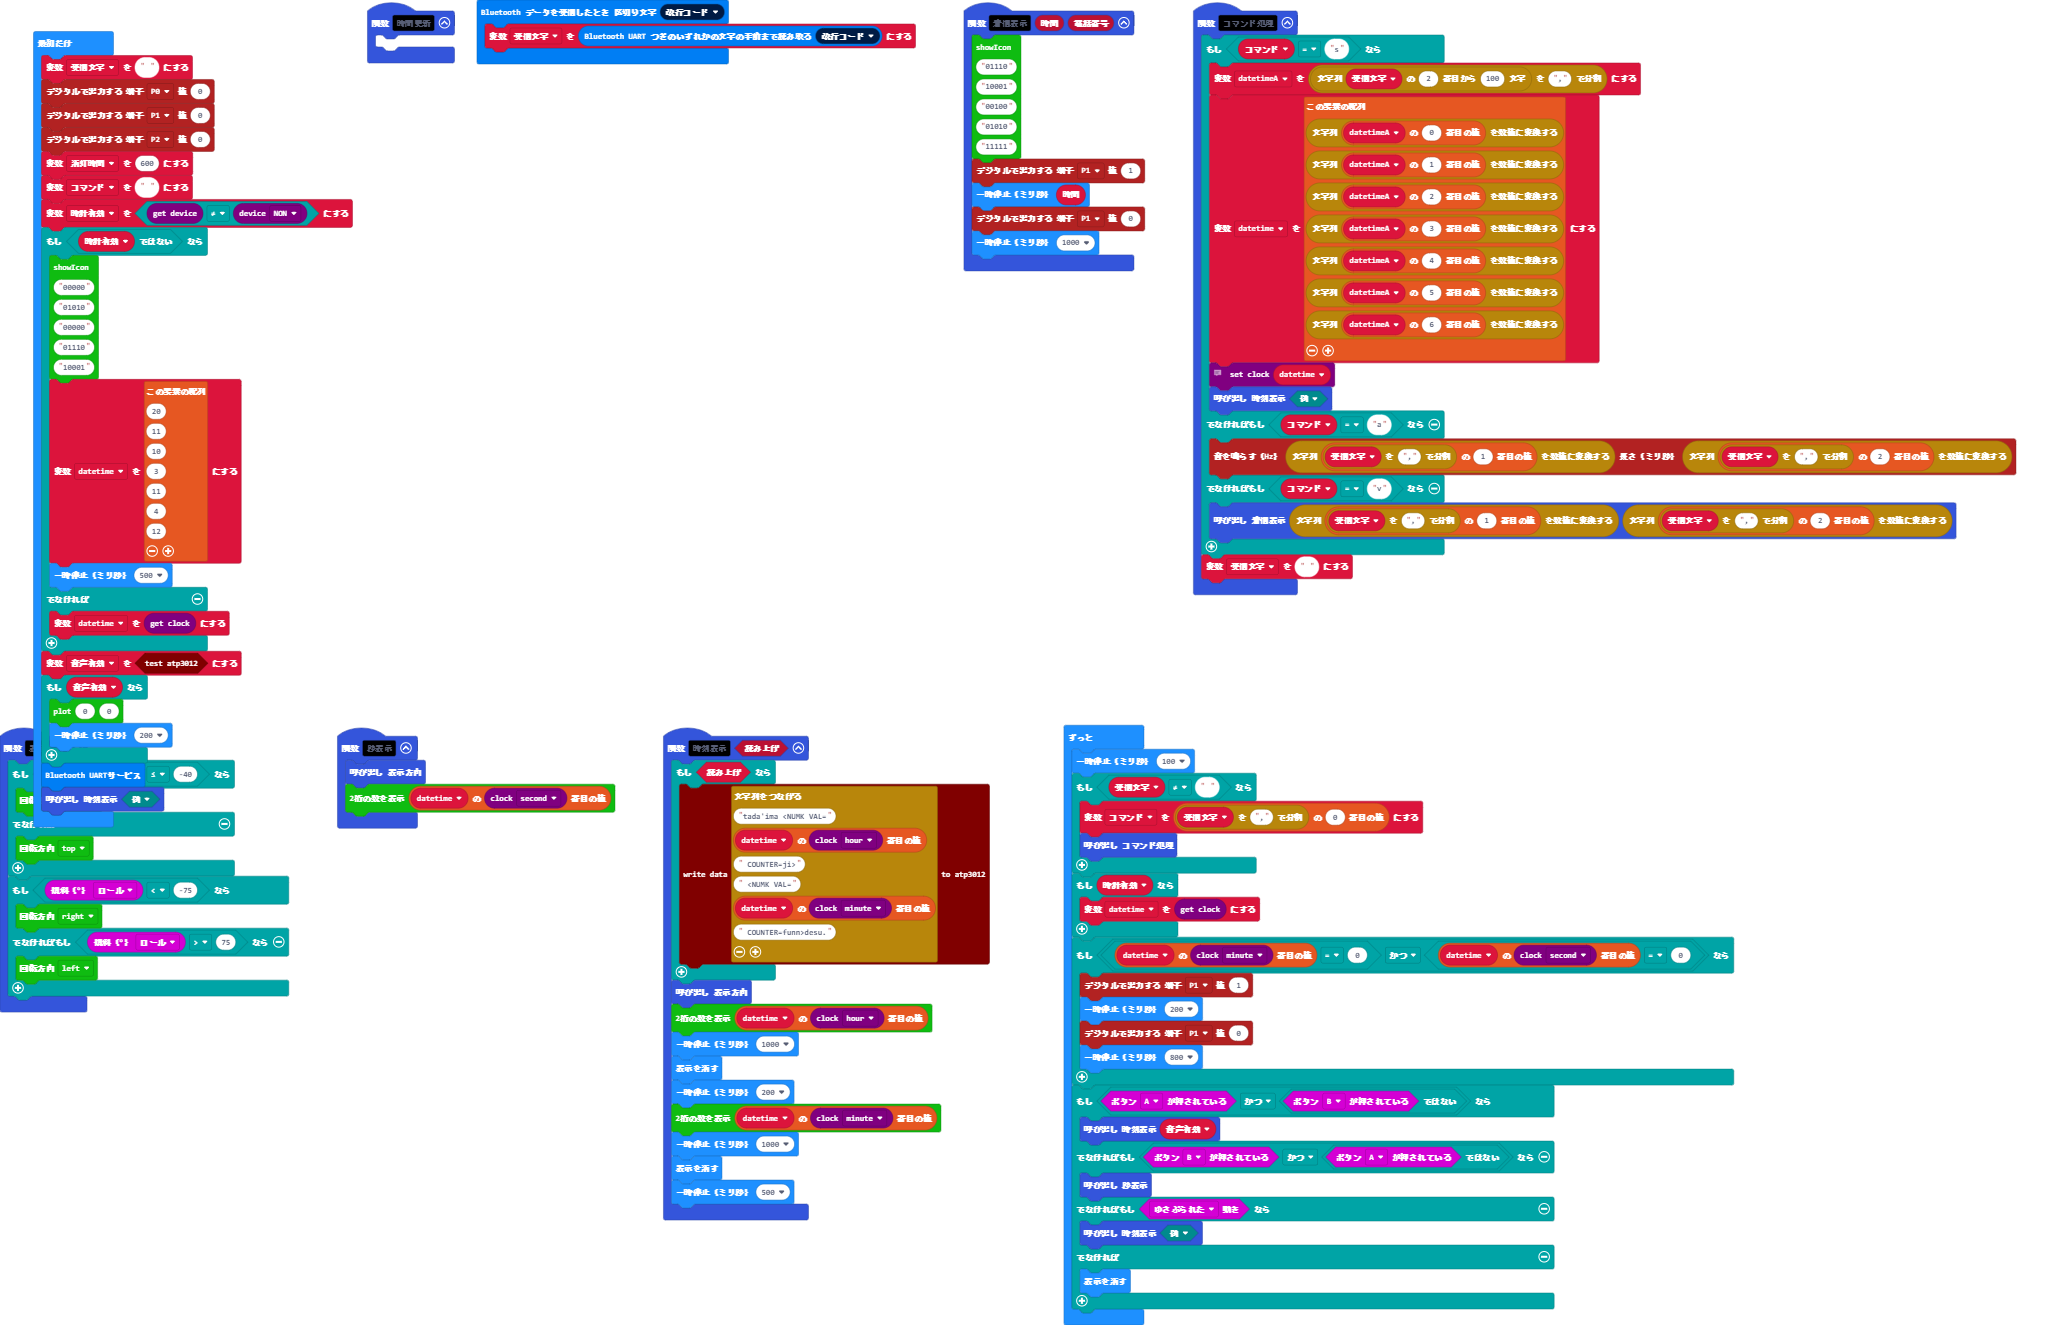
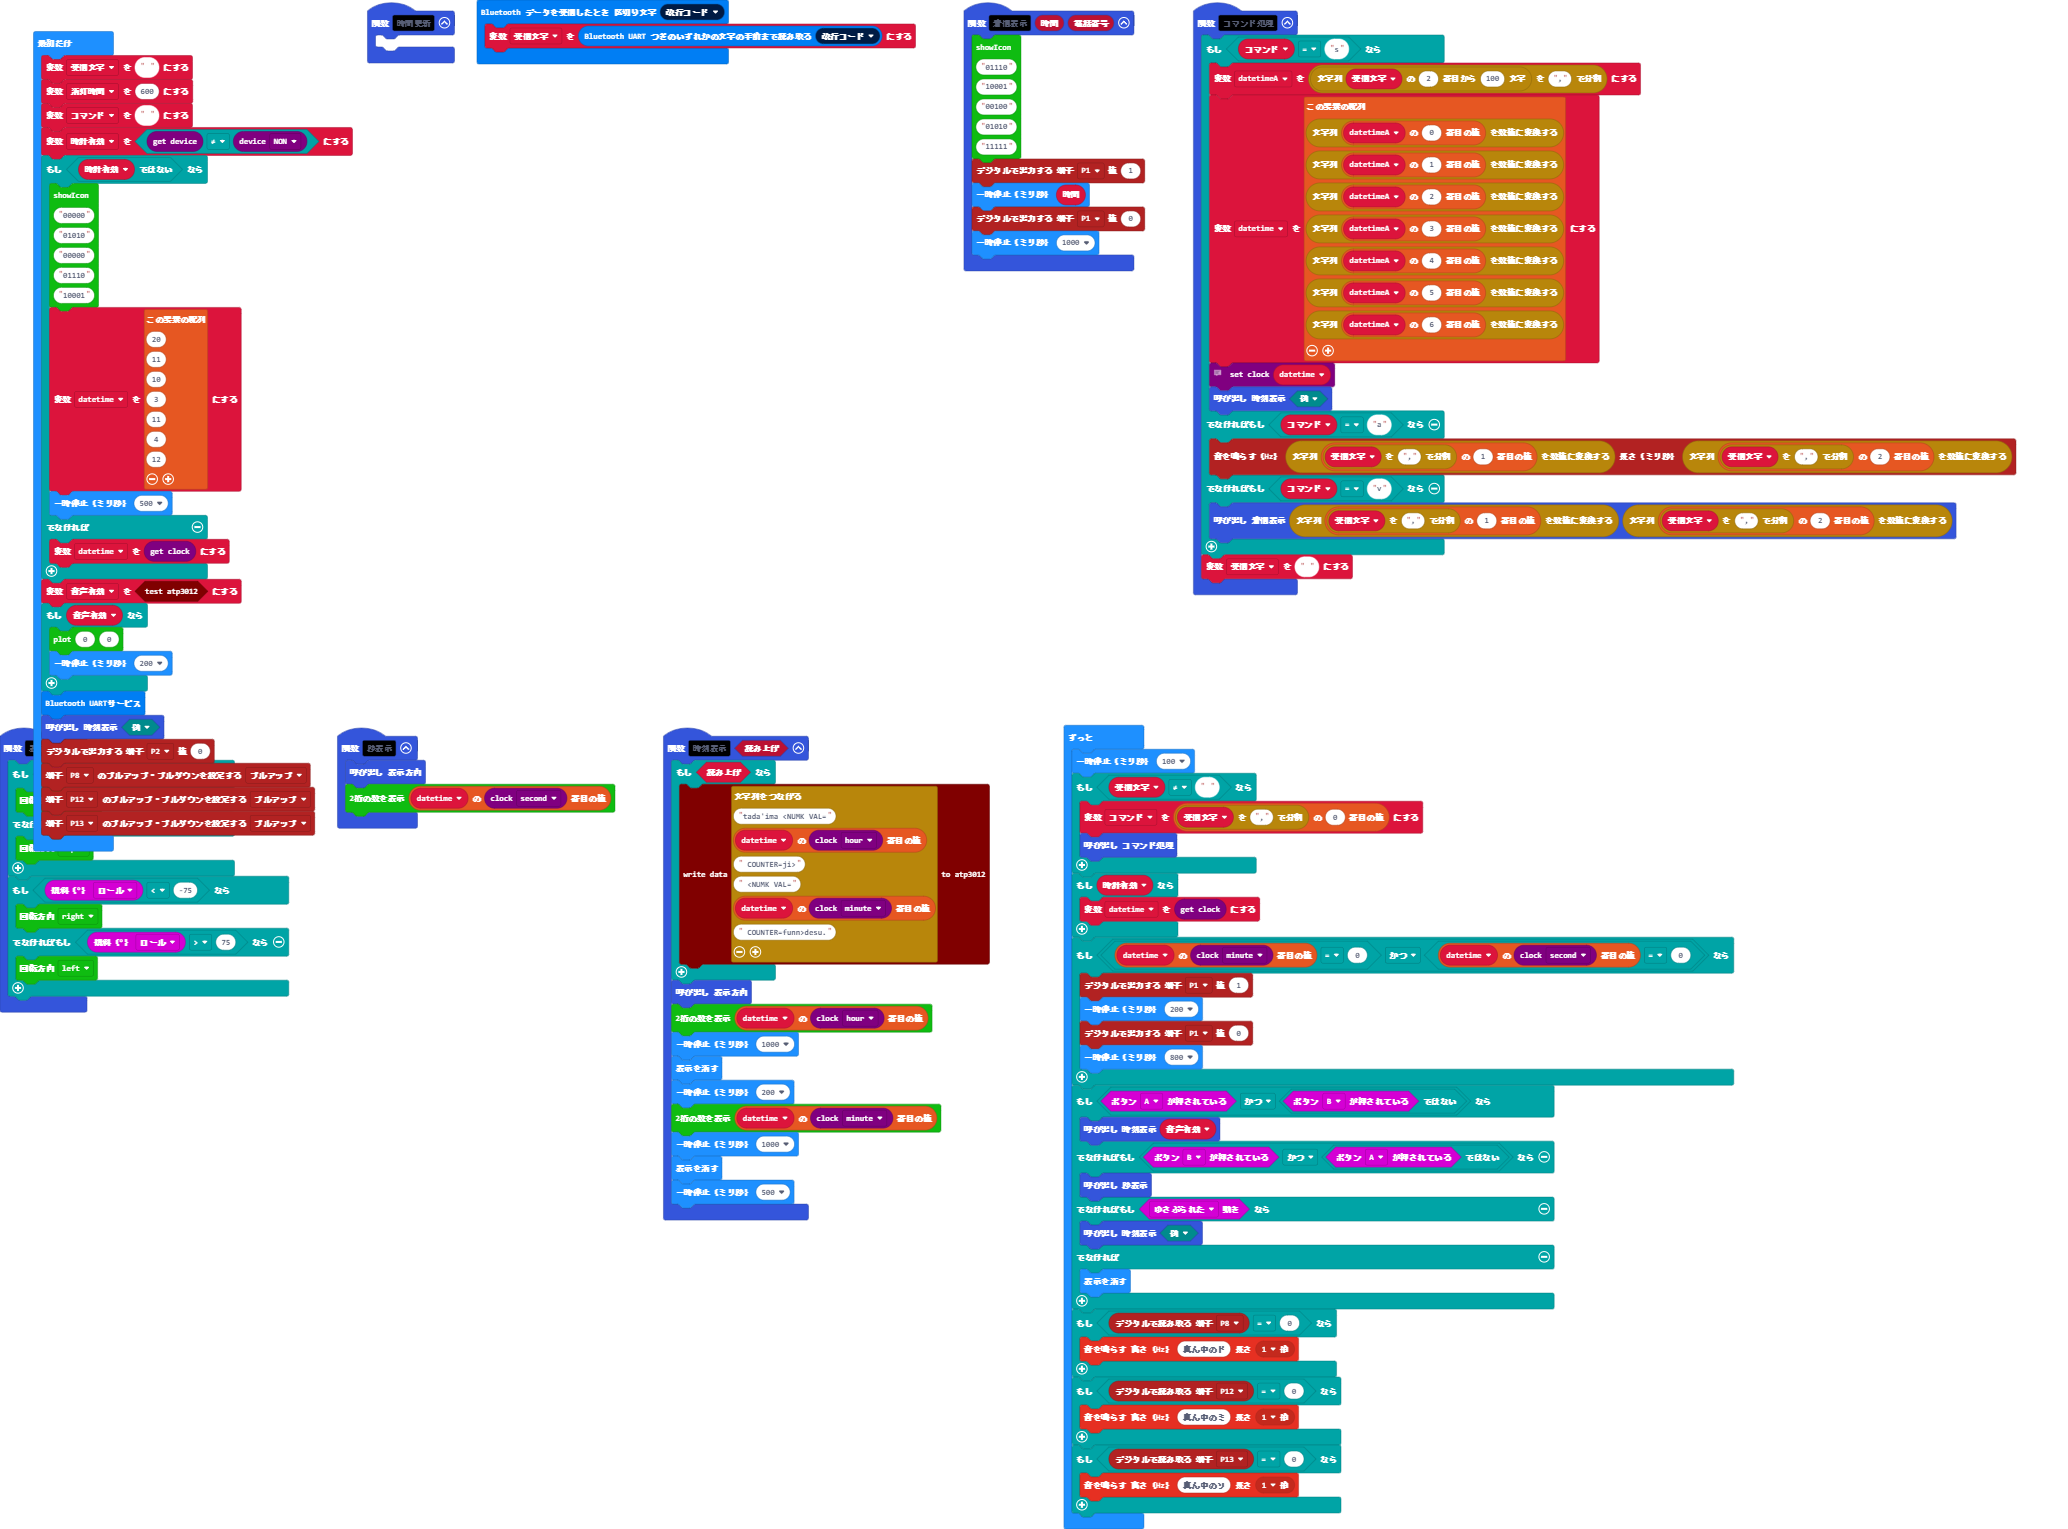
Update pxt.json, main.blocks, main.ts

Changed region(s): [[0.0, 0.0, 0.8356, 0.9902], [0.4642, 0.0, 0.9903, 0.4642], [0.1857, 0.0, 0.4333, 0.0619]]

diff --git a/main.ts b/main.ts
@@ -66,9 +66,6 @@ let datetime: number[] = []
 let コマンド = ""
 let 受信文字 = ""
 受信文字 = ""
-pins.digitalWritePin(DigitalPin.P0, 0)
-pins.digitalWritePin(DigitalPin.P1, 0)
-pins.digitalWritePin(DigitalPin.P2, 0)
 let 消灯時間 = 600
 コマンド = ""
 let 時計有効 = rtc.getDevice() != rtc.getClockDevice(rtcType.NON)
@@ -92,6 +89,10 @@ if (音声有効) {
 }
 bluetooth.startUartService()
 時刻表示(false)
+pins.digitalWritePin(DigitalPin.P2, 0)
+pins.setPull(DigitalPin.P8, PinPullMode.PullUp)
+pins.setPull(DigitalPin.P12, PinPullMode.PullUp)
+pins.setPull(DigitalPin.P13, PinPullMode.PullUp)
 basic.forever(function () {
     basic.pause(100)
     if (受信文字 != "") {
@@ -115,5 +116,14 @@ basic.forever(function () {
         時刻表示(false)
     } else {
         basic.clearScreen()
+    }
+    if (pins.digitalReadPin(DigitalPin.P8) == 0) {
+        music.playTone(262, music.beat(BeatFraction.Whole))
+    }
+    if (pins.digitalReadPin(DigitalPin.P12) == 0) {
+        music.playTone(330, music.beat(BeatFraction.Whole))
+    }
+    if (pins.digitalReadPin(DigitalPin.P13) == 0) {
+        music.playTone(392, music.beat(BeatFraction.Whole))
     }
 })
